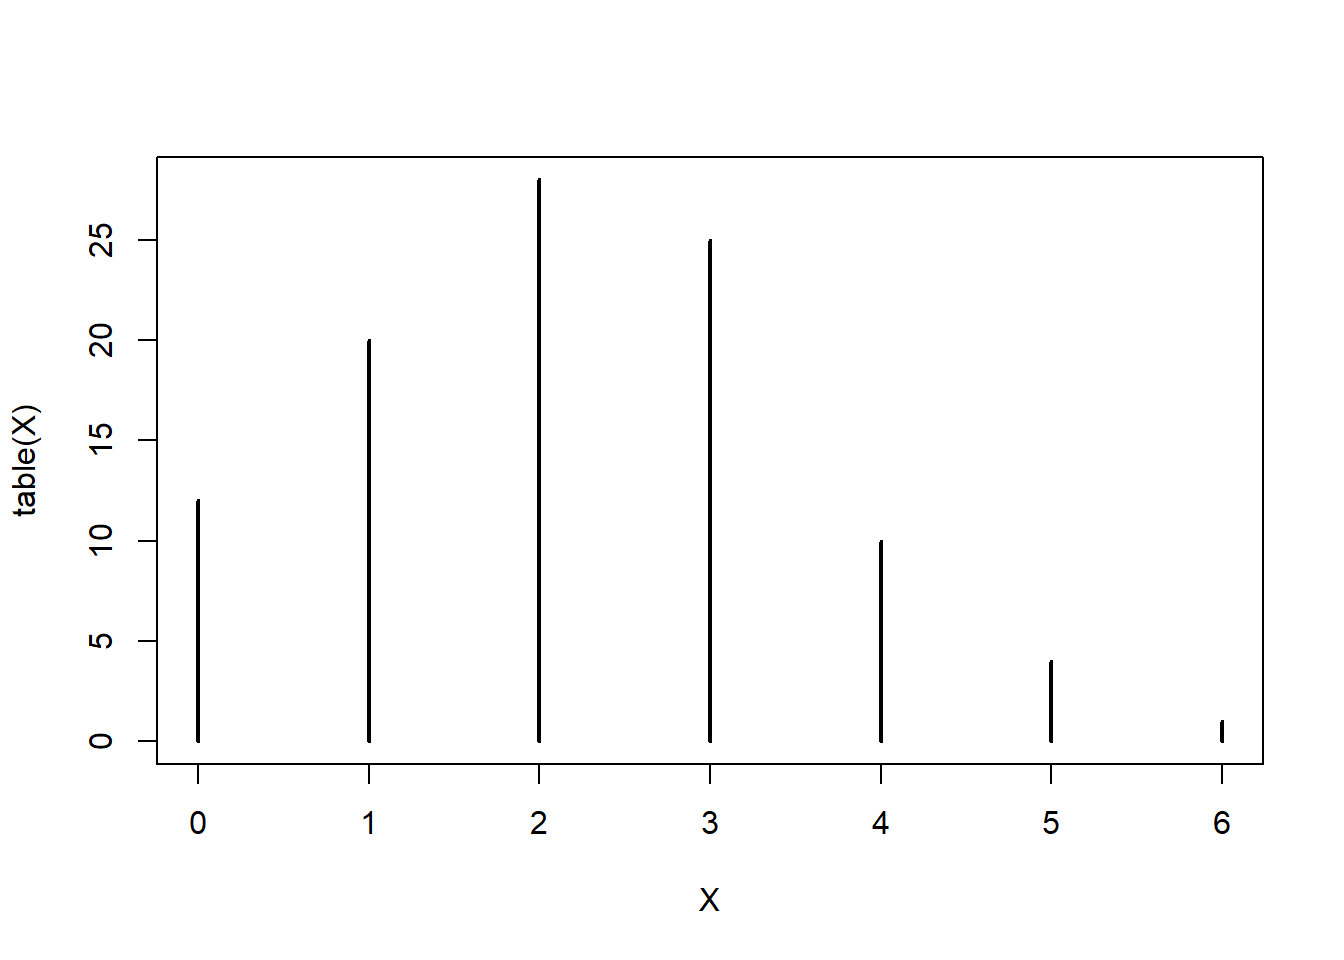
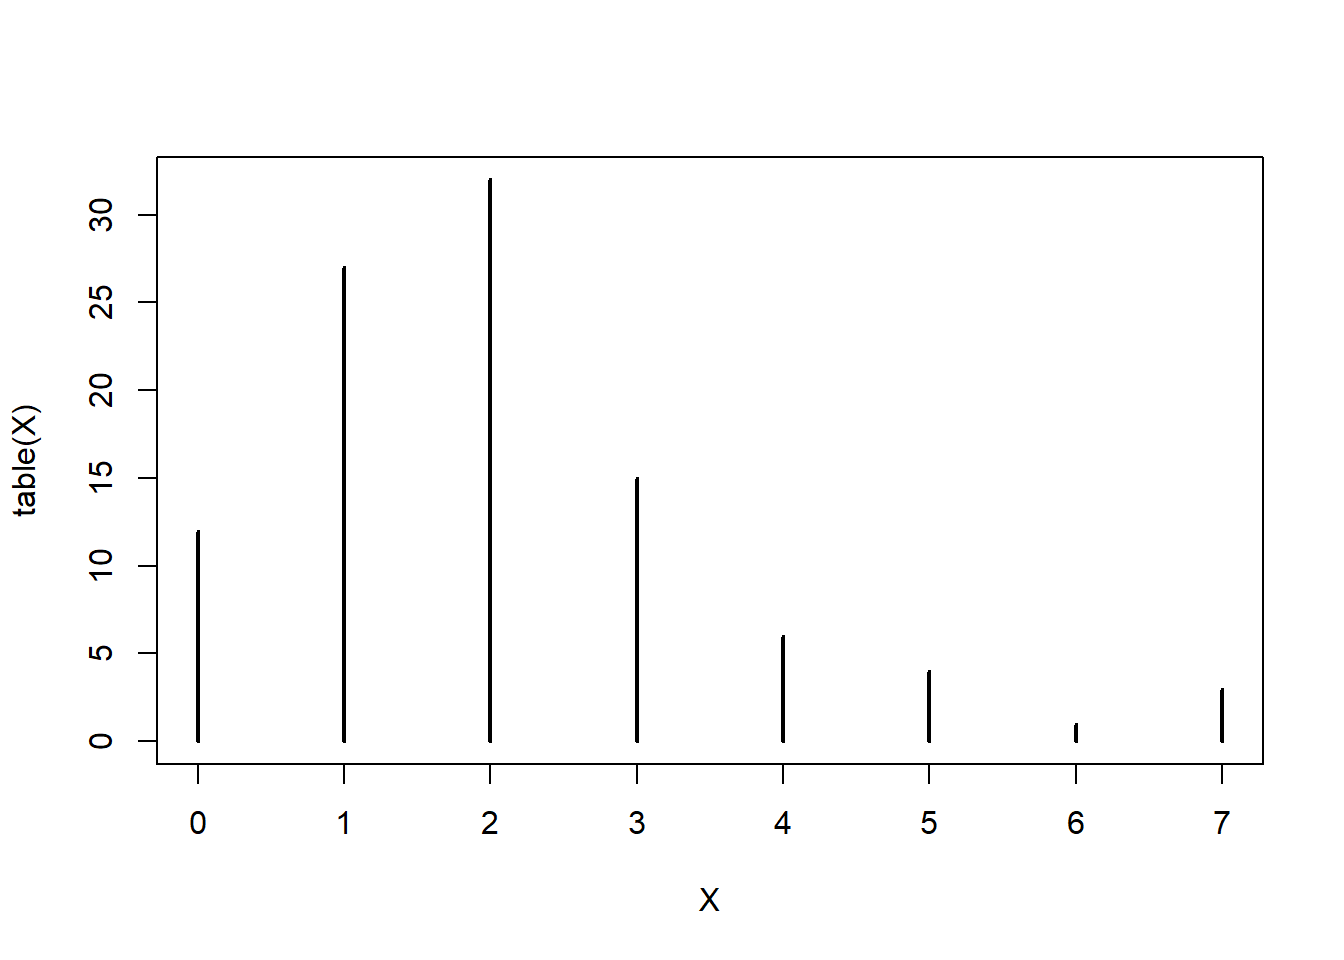
edit: updates

diff --git a/content/post/2024-12-16-central-limit-theorem/index.html b/content/post/2024-12-16-central-limit-theorem/index.html
@@ -26,10 +26,10 @@ X \sim \text{Poisson}(2)
 <p>試しにRで<code>X</code>を生成してみる（<code>rpois()</code>はポアソン分布に従う乱数を生成）。</p>
 <pre class="r"><code># produce 3 samples of X that follows a Poisson distribution with a mean 2
 (X &lt;- rpois(n = 3, lambda = 2))</code></pre>
-<pre><code>## [1] 0 3 1</code></pre>
-<p>この例では、３サンプル生成してみると、0, 3, 1 となった。ここで、最初の文言に戻ってみよう。</p>
+<pre><code>## [1] 1 2 2</code></pre>
+<p>この例では、３サンプル生成してみると、1, 2, 2 となった。ここで、最初の文言に戻ってみよう。</p>
 <p>「<strong>サンプルサイズ（標本数）が増えれば、どんな確率変数も正規分布で近似できる</strong>」</p>
-<p>この言葉を字面通りに受け取ると、サンプルをどんどん増やしていけば<code>X</code>はいずれ正規分布に近づくように解釈できる。もしそうならば、サンプル数を増やすほど、<code>X</code>の頻度分布はきれいな左右対称の鐘状になるはずだ。試してみよう。</p>
+<p>この言葉を字面通りに受け取ると、サンプルをどんどん増やしていけば<code>X</code>はいずれ正規分布に近づくように解釈できる。もしそうならば、サンプル数を増やすほど、<code>X</code>の頻度分布はきれいな左右対称の鐘状になるはずだ。試してみよう。まずは100サンプル。</p>
 <pre class="r"><code># histogram with 100 samples
 X &lt;- rpois(n = 100, lambda = 2)
 plot(table(X))</code></pre>
@@ -42,7 +42,7 @@ plot(table(X))</code></pre>
 <p>そろそろわかると思うが、<strong><code>X</code>のサンプルサイズを増やしたところで<code>X</code>はポアソン分布のままである</strong>。そう、中心極限定理は、そもそもこんなことは言っていないので当然である。</p>
 <p>実際の答えはこうだ：</p>
 <p>「<strong>ある確率分布に従う確率変数Ｘがある。複数のＸを足し合わせた新たな確率変数Ｙ（</strong><span class="math inline">\(Y = \sum_i X_i\)</span><strong>）を考える</strong><a href="#fn2" class="footnote-ref" id="fnref2"><sup>2</sup></a><strong>。この時、足し合わせるＸの個数が多ければ、Ｙは漸近的に正規分布に従う</strong> 」</p>
-<p>Rで試してみよう。</p>
+<p>Rで試してみよう。100個の<code>X</code>を足した値を<code>Y</code>として、それを1000個生成する。</p>
 <pre class="r"><code>## Take a sum of 100 poisson samples for 1000 times
 Y &lt;- replicate(1000,
                sum(rpois(100, lambda = 2)))
